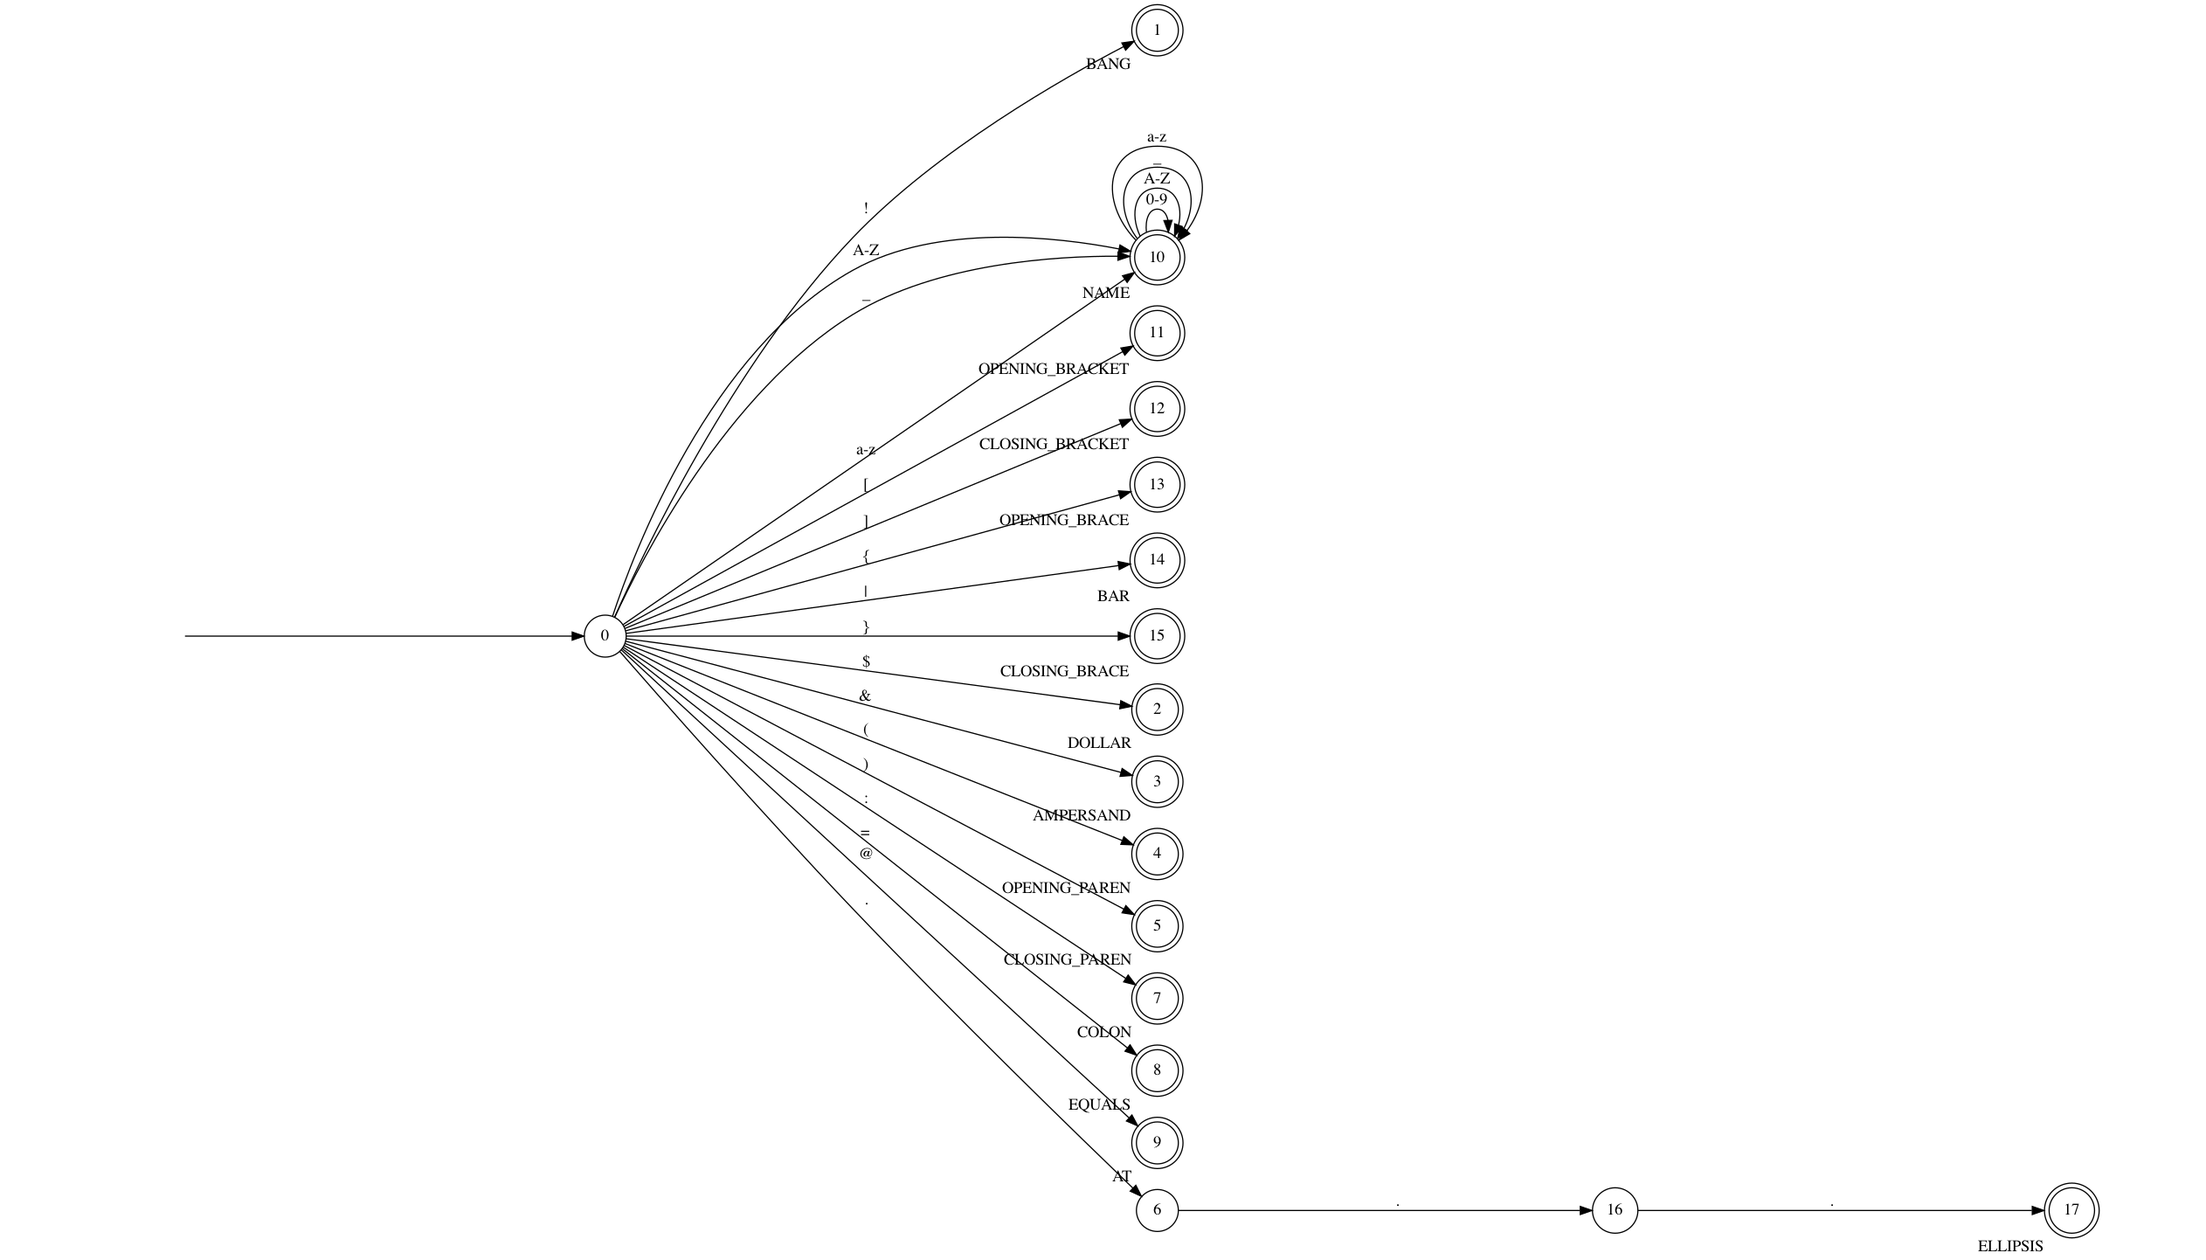
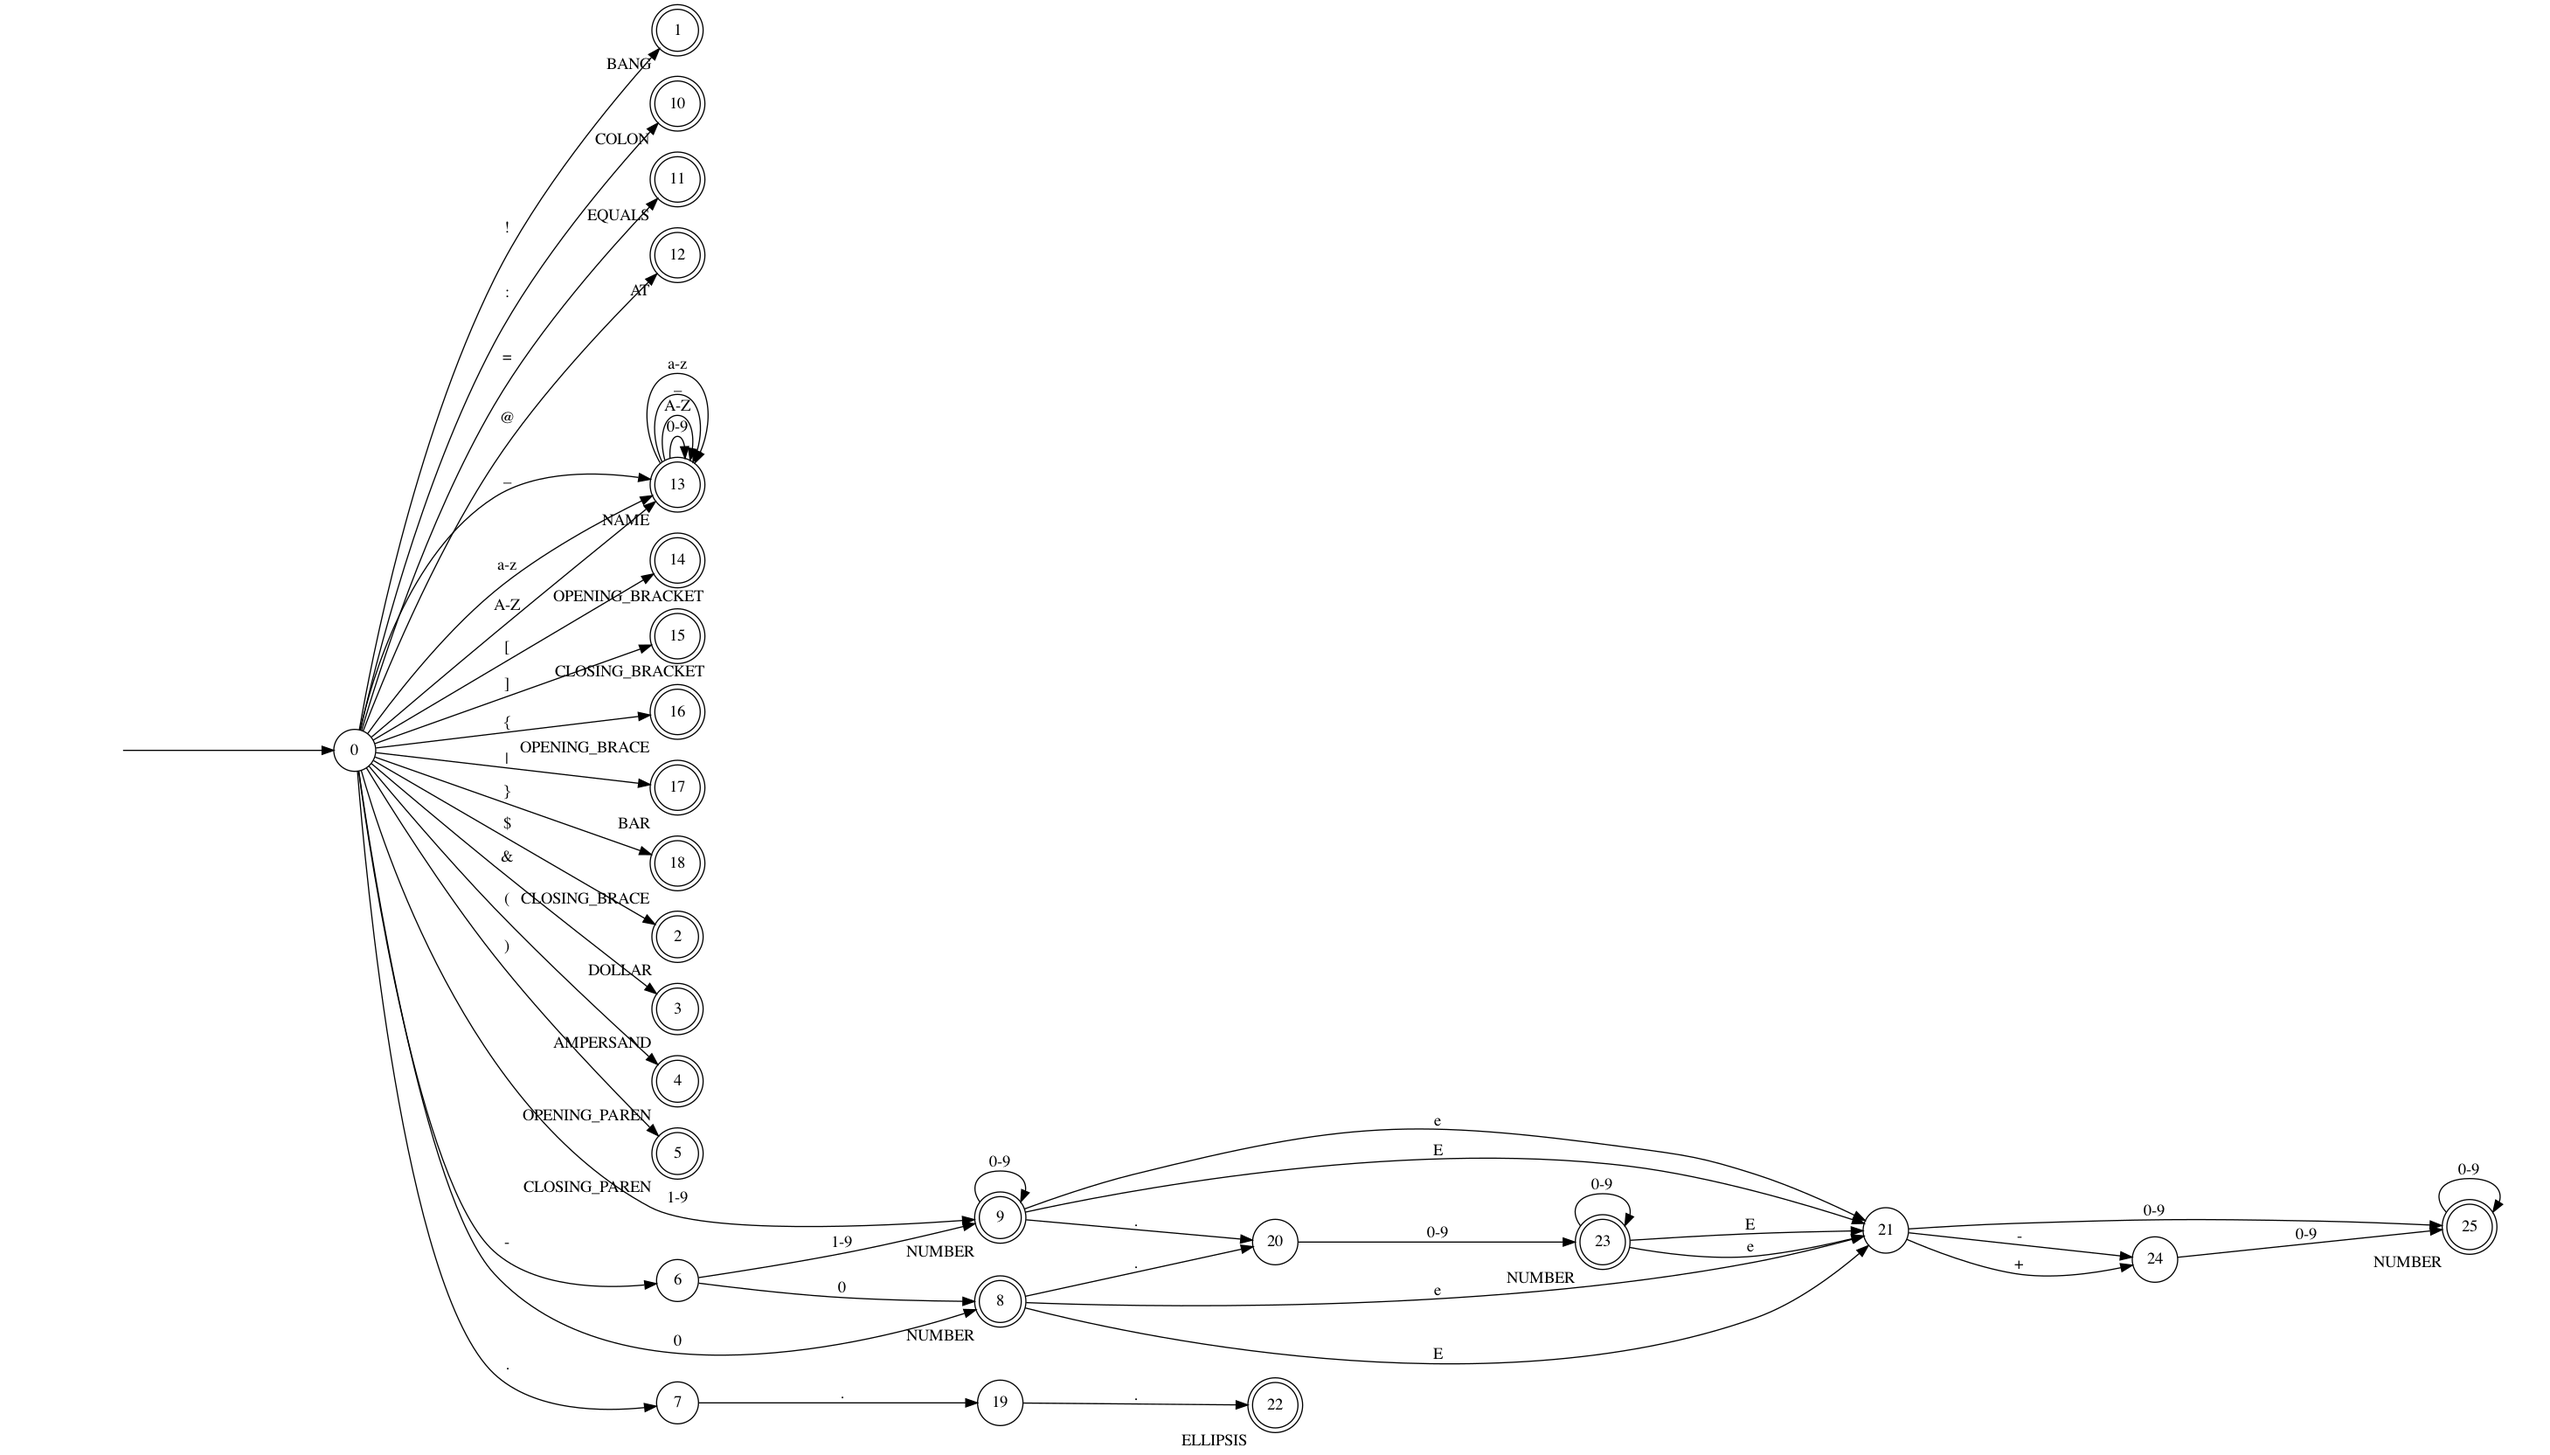
chore: add NUMBER to unioned machine in diagrams

diff --git a/packages/lexer/src/bin/dotify.ts b/packages/lexer/src/bin/dotify.ts
@@ -99,10 +99,11 @@ function unionedTokens() {
       OPENING_BRACKET,
       OPENING_PAREN,
 
-      // TODO: strings and numbers too
+      // TODO: strings too
 
       // Other Lexical tokens.
       NAME,
+      NUMBER,
     },
   );
 }
